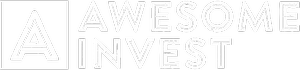
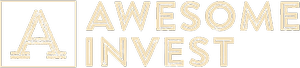
refactor: update style header

diff --git a/src/components/layout/header/HeaderElements.js b/src/components/layout/header/HeaderElements.js
@@ -3,19 +3,17 @@ import { Navbar } from 'react-bootstrap'
 
 export const SNavbar = styled(Navbar)`
   width: 100%;
-  height: 92px;
-  top: 0;
   font-family: 'Nunito', Helvetica, Arial, Lucida, sans-serif;
-  background-color: #501417;
-  color: white;
+  background-color: #501417 !important;
   font-weight: bold;
-  top: 0;
   z-index: 1;
+  @media screen and (max-width: 990px) {
+    background-color: #501417;
+  }
 `
 
 export const SNavLink = styled.a`
   font-family: 'Montserrat', sans-serif !important;
-  color: #fff;
   text-decoration: none;
   top: 0;
   display: inline-block;
@@ -30,9 +28,22 @@ export const SNavLink = styled.a`
     color: white;
     transition: 0.3s ease-out;
   }
+  @media screen and (max-width: 990px) {
+    padding: 20px;
+    text-align: center;
+    &:hover {
+      text-decoration: underline;
+      background-color: #af9b7c;
+      transition: 0.3s ease-out;
+    }
+  }
 `
 
 export const SNavbarLogo = styled.img`
   width: 13.5rem;
-  margin-left: 50px;
+`
+
+export const SNavbarToggle = styled(Navbar.Toggle)`
+  background-color: #b5a48d;
+  color: #a59174 !important;
 `
